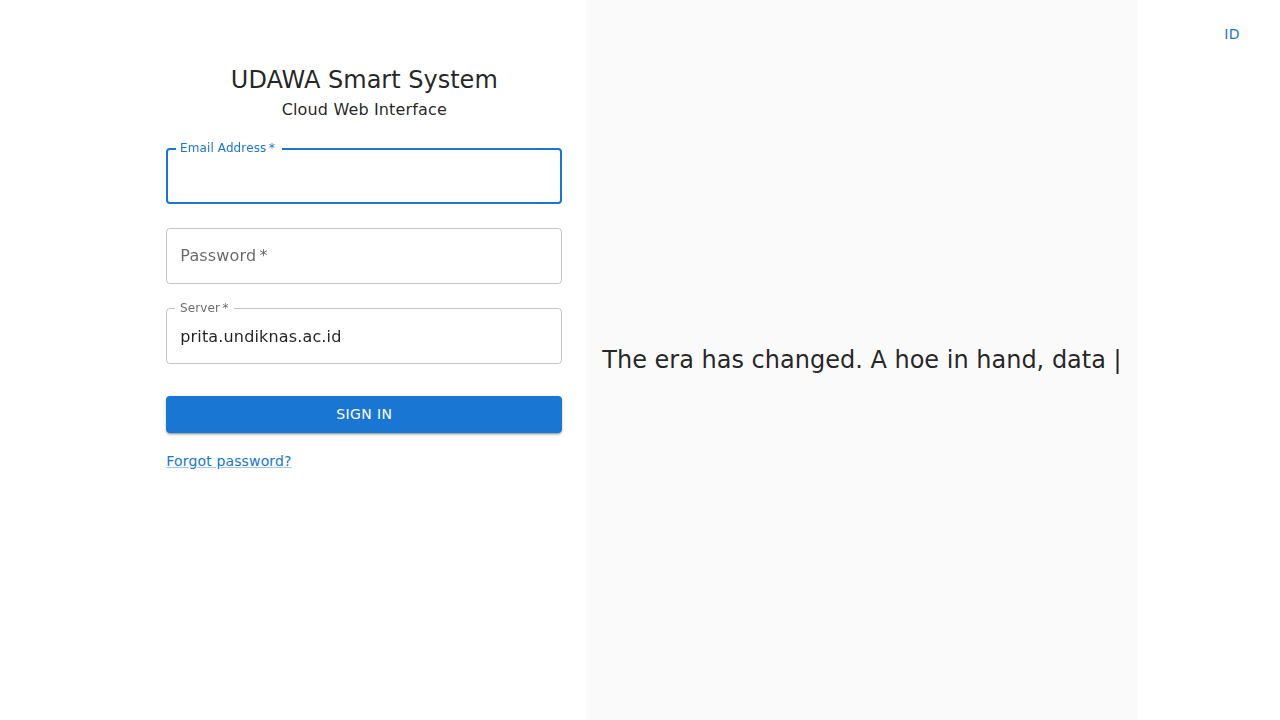
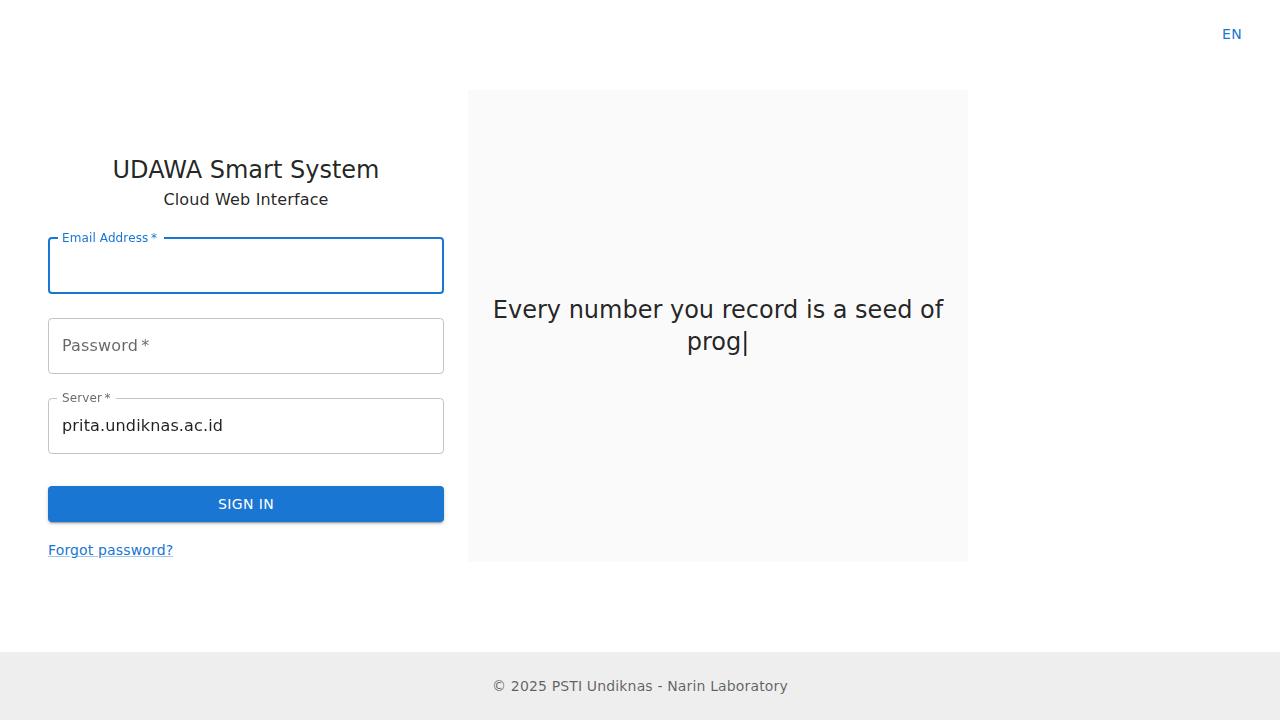
feat: Implement animated quotes and layout fixes
This commit introduces several enhancements to the login page in response to user feedback:

- Replaces the static image with a dynamic, animated quotes component that is internationalized.
- Adjusts the page layout to ensure the footer is always visible.
- Sets a fixed width for the quotes container to prevent layout shifts during animation.
- Implements language persistence using local storage, so the user's language choice is remembered across sessions.

diff --git a/src/features/auth/pages/LoginPage.tsx b/src/features/auth/pages/LoginPage.tsx
@@ -21,8 +21,9 @@ const LoginPage: React.FC = () => {
   const [status, setStatus] = useState('');
 
   const handleLanguageChange = () => {
-    const newLang = i18n.language === 'en' ? 'id' : 'en';
+    const newLang = i18n.language.startsWith('en') ? 'id' : 'en';
     i18n.changeLanguage(newLang);
+    localStorage.setItem('i18nextLng', newLang);
   };
 
   const handleSubmit = async (event: React.FormEvent<HTMLFormElement>) => {
@@ -54,7 +55,7 @@ const LoginPage: React.FC = () => {
   };
 
   return (
-    <Grid container component="main" sx={{ height: '100vh' }}>
+    <Grid container component="main" sx={{ flex: '1 0 auto' }}>
       <Grid item xs={12} sm={8} md={5}>
         <Container component="main" maxWidth="xs">
           <Box
@@ -70,7 +71,7 @@ const LoginPage: React.FC = () => {
                 onClick={handleLanguageChange}
                 data-testid="language-switcher"
               >
-                {i18n.language === 'en' ? 'ID' : 'EN'}
+                {i18n.language.startsWith('en') ? 'ID' : 'EN'}
               </Button>
             </Box>
             <Typography component="h1" variant="h5">
@@ -155,7 +156,9 @@ const LoginPage: React.FC = () => {
             t.palette.mode === 'light' ? t.palette.grey[50] : t.palette.grey[900],
         }}
       >
-        <AnimatedQuotes />
+        <Box sx={{ width: 500 }} data-testid="quotes-container">
+          <AnimatedQuotes />
+        </Box>
       </Grid>
     </Grid>
   );

diff --git a/src/features/auth/layouts/AuthLayout.tsx b/src/features/auth/layouts/AuthLayout.tsx
@@ -7,23 +7,24 @@ interface AuthLayoutProps {
 
 const AuthLayout: React.FC<AuthLayoutProps> = ({ children }) => {
   return (
-    <Container component="main" maxWidth={false}>
-      <Box
+    <Box sx={{ display: 'flex', flexDirection: 'column', minHeight: '100vh' }}>
+      <Container
+        component="main"
+        maxWidth={false}
         sx={{
+          flex: '1 0 auto',
           display: 'flex',
-          justifyContent: 'center',
           alignItems: 'center',
-          minHeight: '100vh',
+          justifyContent: 'center'
         }}
       >
         {children}
-      </Box>
+      </Container>
       <Box
         component="footer"
         sx={{
           py: 3,
           px: 2,
-          mt: 'auto',
           backgroundColor: (theme) =>
             theme.palette.mode === 'light'
               ? theme.palette.grey[200]
@@ -36,7 +37,7 @@ const AuthLayout: React.FC<AuthLayoutProps> = ({ children }) => {
           </Typography>
         </Container>
       </Box>
-    </Container>
+    </Box>
   );
 };
 

diff --git a/src/features/auth/components/AnimatedQuotes.tsx b/src/features/auth/components/AnimatedQuotes.tsx
@@ -7,6 +7,7 @@ import { quotes } from '../../../assets/quotes';
 const AnimatedQuotes: React.FC = () => {
   const { i18n } = useTranslation();
   const [sequence, setSequence] = useState<(string | number)[]>([]);
+  const [key, setKey] = useState(0);
 
   useEffect(() => {
     const currentLanguage = i18n.language.split('-')[0];
@@ -19,6 +20,7 @@ const AnimatedQuotes: React.FC = () => {
     });
 
     setSequence(newSequence);
+    setKey(prevKey => prevKey + 1);
   }, [i18n.language]);
 
   if (sequence.length === 0) {
@@ -28,6 +30,7 @@ const AnimatedQuotes: React.FC = () => {
   return (
     <Typography variant="h5" component="div" sx={{ textAlign: 'center', fontStyle: 'italic', padding: 2 }}>
       <TypeAnimation
+        key={key}
         sequence={sequence}
         wrapper="span"
         speed={50}

diff --git a/src/i18n.ts b/src/i18n.ts
@@ -1,9 +1,11 @@
 import i18n from 'i18next';
 import { initReactI18next } from 'react-i18next';
+import LanguageDetector from 'i18next-browser-languagedetector';
 import en from './locales/en/translation.json';
 import id from './locales/id/translation.json';
 
 i18n
+  .use(LanguageDetector)
   .use(initReactI18next)
   .init({
     resources: {
@@ -14,10 +16,13 @@ i18n
         translation: id,
       },
     },
-    lng: 'en',
     fallbackLng: 'en',
     interpolation: {
       escapeValue: false,
+    },
+    detection: {
+      order: ['localStorage', 'navigator'],
+      caches: ['localStorage'],
     },
   });
 

diff --git a/jules-scratch/verification/verify_all_changes.py b/jules-scratch/verification/verify_all_changes.py
@@ -1,0 +1,52 @@
+from playwright.sync_api import sync_playwright, Page, expect
+import time
+
+def test_login_page_features(page: Page):
+    """
+    This test verifies:
+    1. The footer is visible.
+    2. The animated quotes container has a fixed width.
+    3. The language preference is persisted in local storage.
+    """
+    # 1. Arrange: Go to the application URL.
+    page.goto("http://localhost:5173")
+    time.sleep(2) # Allow time for initial render and animation to start
+
+    # 2. Assert: Check footer visibility
+    footer = page.locator("footer")
+    expect(footer).to_be_visible()
+
+    # 3. Assert: Check fixed width of the quotes container
+    quotes_container = page.get_by_test_id("quotes-container")
+    bounding_box = quotes_container.bounding_box()
+    assert bounding_box is not None, "Quotes container not found"
+    assert bounding_box['width'] == 500, f"Expected width 500, but got {bounding_box['width']}"
+
+    # 4. Screenshot: Capture initial state (English)
+    page.screenshot(path="jules-scratch/verification/verification_en.png")
+
+    # 5. Act: Change language to Indonesian
+    language_switcher = page.get_by_test_id("language-switcher")
+    language_switcher.click()
+    time.sleep(2) # Allow time for re-render
+
+    # 6. Screenshot: Capture state after language change (Indonesian)
+    page.screenshot(path="jules-scratch/verification/verification_id.png")
+
+    # 7. Act: Reload the page
+    page.reload()
+    time.sleep(2) # Allow time for page to load from scratch
+
+    # 8. Assert: Check that the language is still Indonesian
+    expect(language_switcher).to_have_text("EN")
+
+    # 9. Screenshot: Capture state after reload to check persistence
+    page.screenshot(path="jules-scratch/verification/verification_id_persisted.png")
+
+
+if __name__ == "__main__":
+    with sync_playwright() as p:
+        browser = p.chromium.launch(headless=True)
+        page = browser.new_page()
+        test_login_page_features(page)
+        browser.close()
